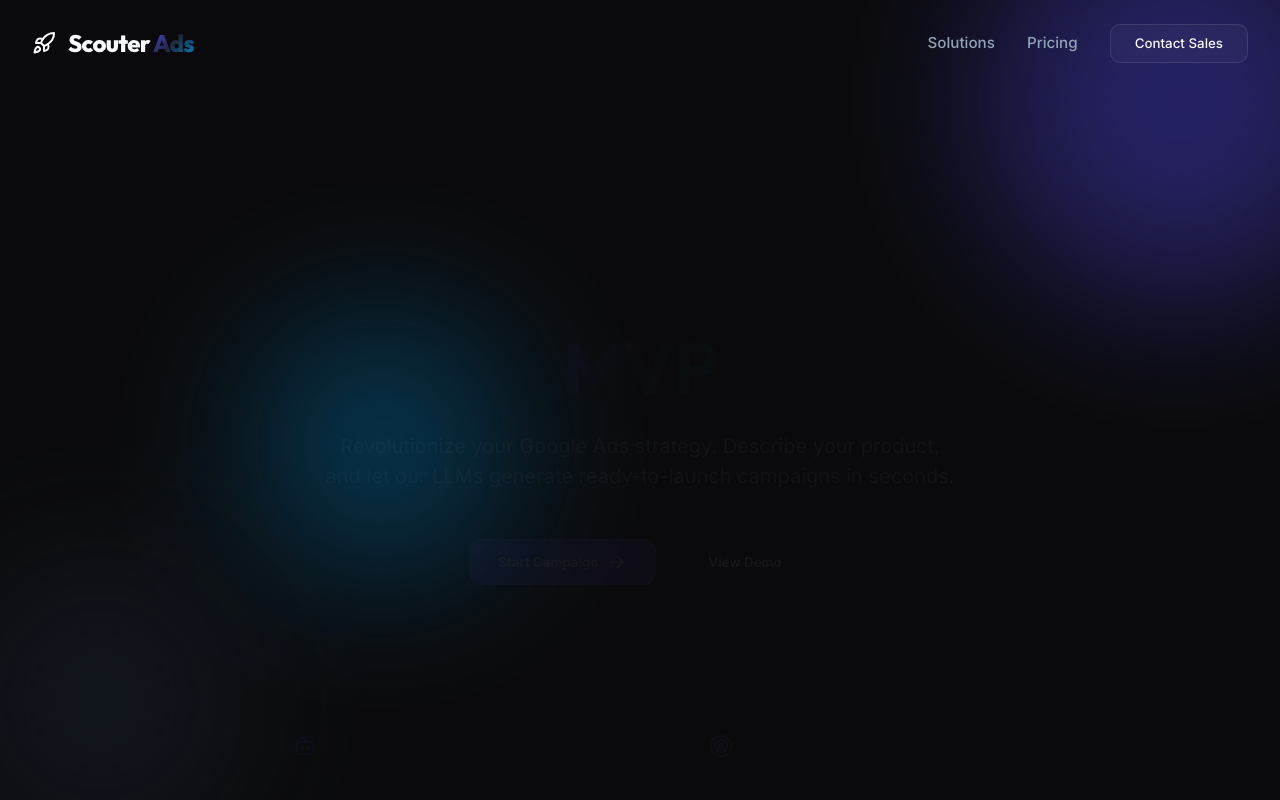
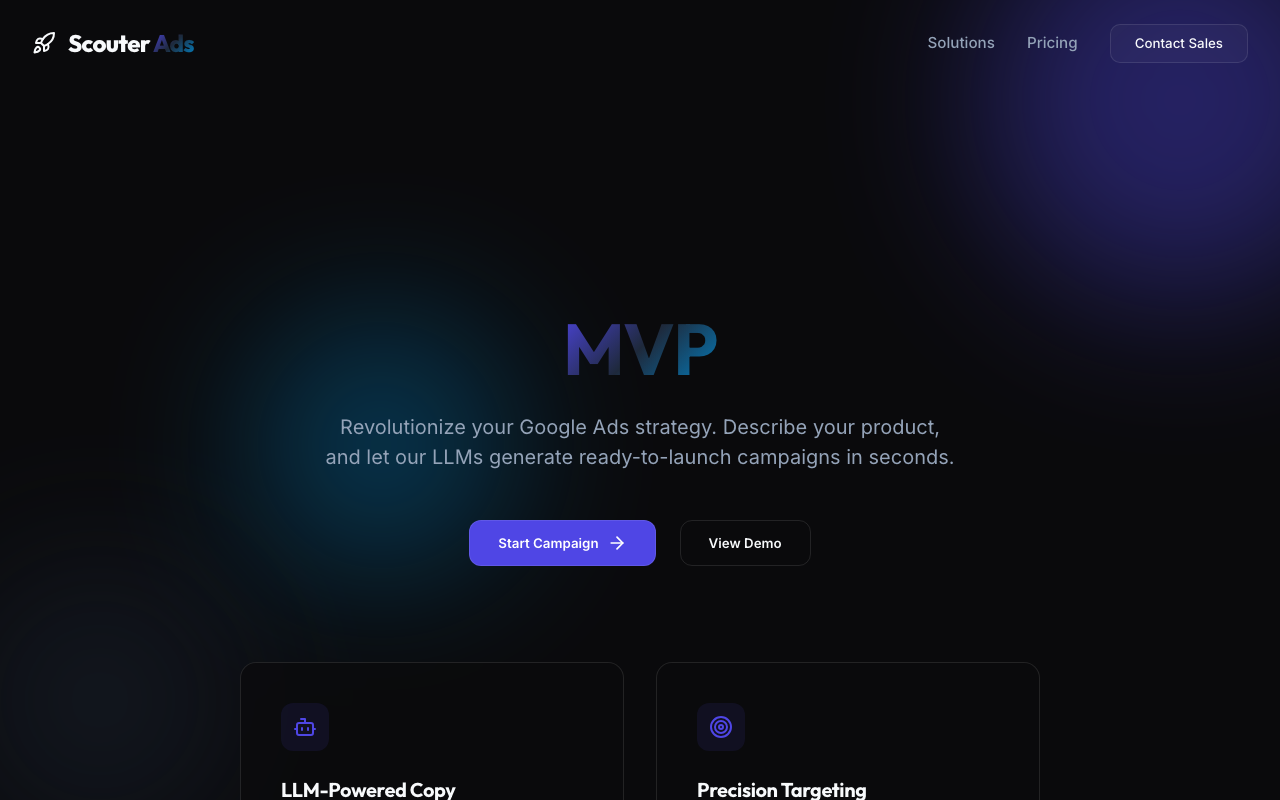
docs: document required environment variables
Claude-Session: https://claude.ai/code/session_012iUfCGXfdexwSbXQCMVPrf

diff --git a/README.md b/README.md
@@ -19,6 +19,21 @@ cd AdsMVP
 npm install
 ```
 
+## Configuration
+
+Copy `.env.example` to `.env` and fill in the values:
+
+```bash
+cp .env.example .env
+```
+
+| Variable         | Used for                                                                 |
+| ---------------- | ------------------------------------------------------------------------- |
+| `OPENAI_API_KEY` | Authenticates OpenAI SDK calls in `/api/generate-campaign` and `server.ts` for AI campaign generation |
+| `PORT`           | Port for the standalone Express server in `server.ts` (defaults to 3001 if unset) |
+
+Without a real `OPENAI_API_KEY`, `server.ts` detects the placeholder value and the AI campaign-generation feature will not work, though the rest of the UI still renders.
+
 ## Usage
 
 ```bash
